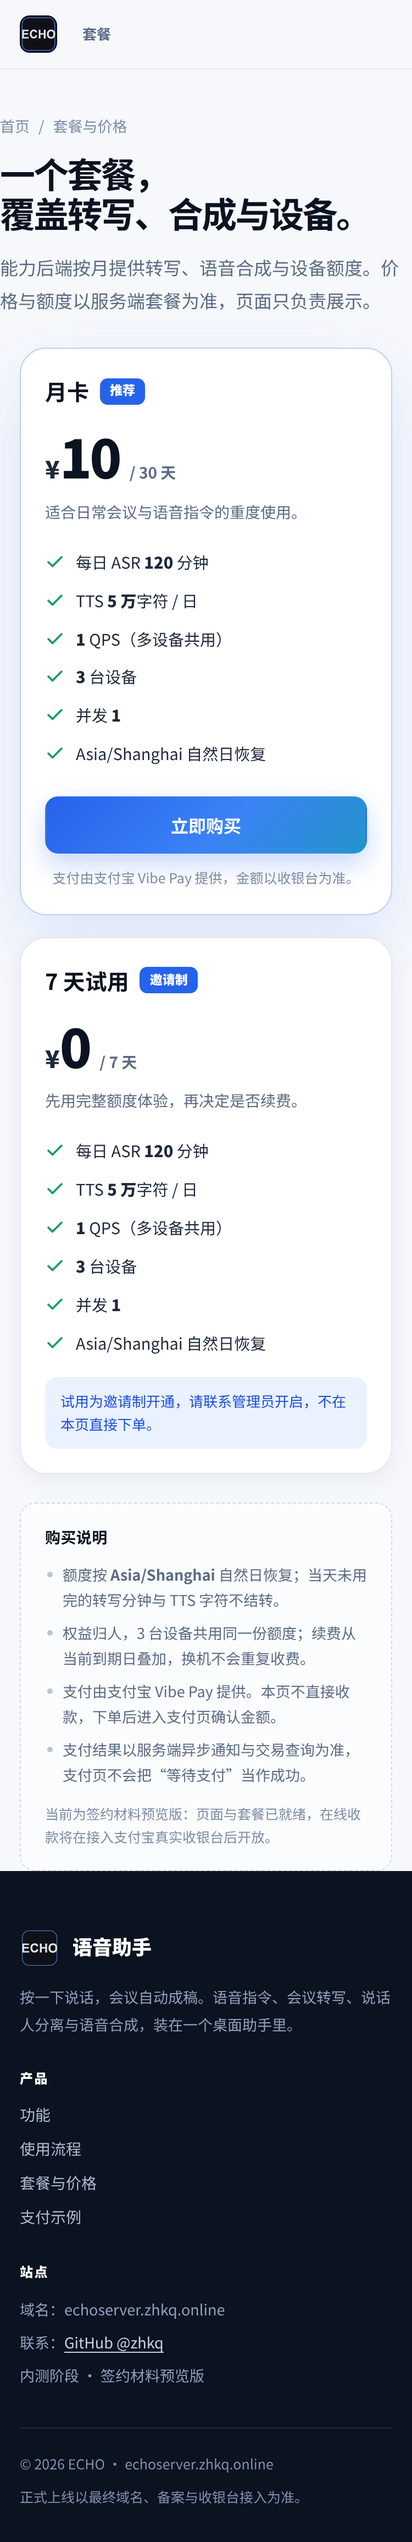
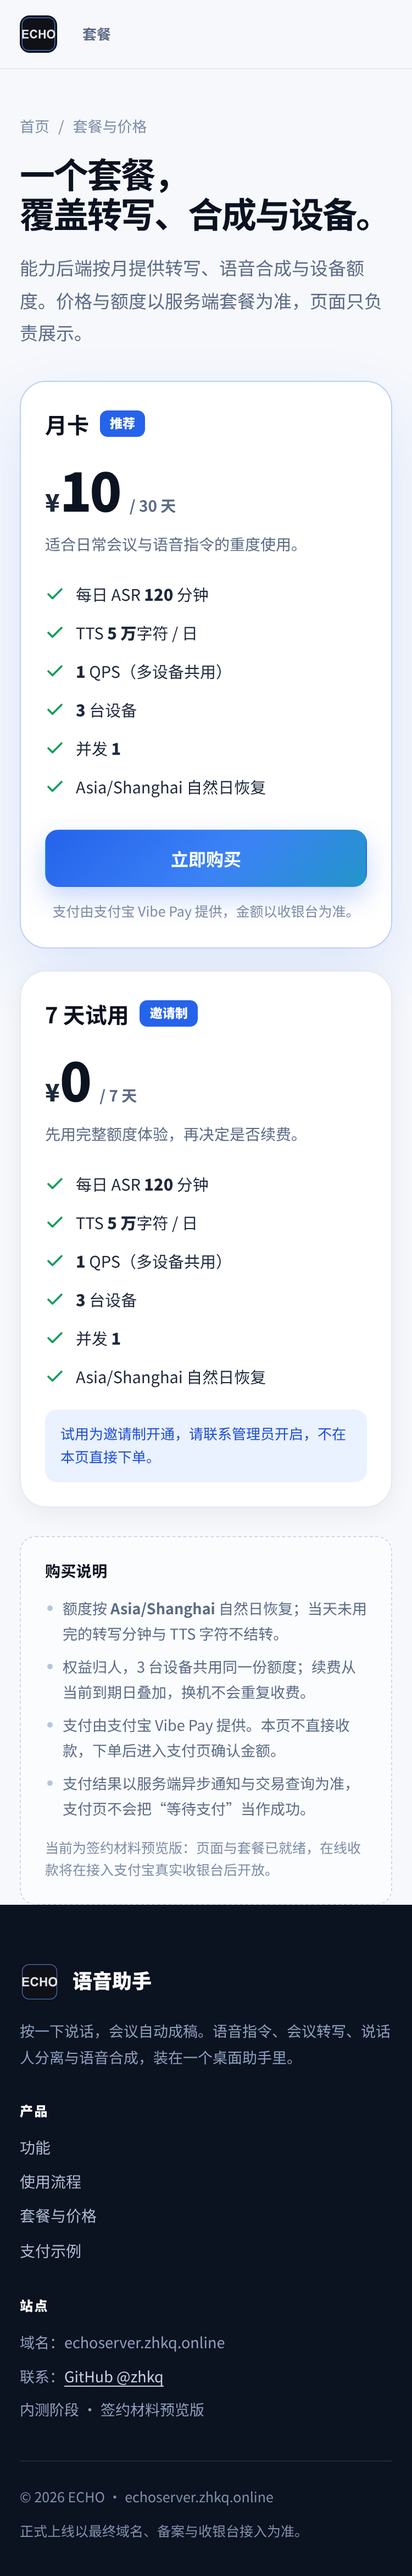
fix(site): 修复移动端 .page-hero 左右内边距 + 补签约提交前清单
- 720px 媒体查询里的 .page-hero 只改上下 padding，保留 .wrap 的 18px 左右内边距
- capture 脚本新增 375 宽 h1.left >= 17px 与 .page-hero padding-left > 0 断言
- tests/test_vibepay_site.py 新增 CSS 守卫，防止 padding 简写把左右清零
- docs/vibepay-evidence/README.md 增加「提交前必须做」5 条（真实收银台/去预览标注/带地址栏/不声称上线/官方定义）
- 重采 after-pricing-mobile.png（h1.left = 18）

diff --git a/site/assets/site.css b/site/assets/site.css
@@ -434,7 +434,8 @@ ul { margin: 0; padding: 0; list-style: none; }
   .privacy { padding: 28px 22px; border-radius: 20px; }
   .cta { flex-direction: column; align-items: flex-start; padding: 28px 24px; }
   .cta .btn { width: 100%; }
-  .page-hero { padding: 40px 0 28px; }
+  /* 只改上下：左右必须继续用 .wrap 的 18px，否则 375 宽下 h1 会贴屏边。 */
+  .page-hero { padding-top: 40px; padding-bottom: 28px; }
   .plan, .panel { padding: 22px; }
   .qr-wrap { flex-direction: column; align-items: flex-start; }
   .footer-grid { grid-template-columns: 1fr; gap: 28px; }

diff --git a/tests/test_vibepay_site.py b/tests/test_vibepay_site.py
@@ -11,6 +11,7 @@
 import json
 import os
 import py_compile
+import re
 import unittest
 from html.parser import HTMLParser
 
@@ -154,6 +155,42 @@ class PageTests(unittest.TestCase):
         for width in ("720px", "980px"):
             self.assertIn("@media (max-width: %s)" % width, css)
 
+    def test_mobile_page_hero_does_not_zero_horizontal_padding(self):
+        """375 宽下 /pricing、/pay 的标题不能贴屏边。
+
+        2026-11-04 复核：`.page-hero { padding: 40px 0 28px }` 会把 `.wrap` 的
+        左右 18px 覆盖成 0，h1.left 变成 0（首页正常 18）。这里钉住 720px 媒体查询里
+        `.page-hero` 的左右内边距不能是 0；真正的 375 宽实测在截图脚本里。
+        """
+        css = _read_site("assets/site.css")
+        media = re.search(r"@media \(max-width: 720px\)\s*\{(.*?)\n\}", css, re.S)
+        self.assertIsNotNone(media, "CSS 里找不到 720px 媒体查询")
+        block = media.group(1)
+        wrap = re.search(r"\.wrap\s*\{([^}]*)\}", block)
+        self.assertIsNotNone(wrap, "720px 媒体查询里没有 .wrap 规则")
+        self.assertIn("padding: 0 18px", wrap.group(1),
+                      "移动端 .wrap 的左右内边距必须保留")
+        hero = re.search(r"\.page-hero\s*\{([^}]*)\}", block)
+        self.assertIsNotNone(hero, "720px 媒体查询里没有 .page-hero 规则")
+        body = hero.group(1)
+        for raw in re.findall(r"padding\s*:\s*([^;]+);", body):
+            parts = raw.split()
+            if len(parts) == 1:
+                horizontal = [parts[0]]
+            elif len(parts) == 2:
+                horizontal = [parts[1]]
+            elif len(parts) == 3:
+                horizontal = [parts[1]]
+            else:
+                horizontal = [parts[1], parts[3]]
+            for value in horizontal:
+                self.assertNotIn(value, ("0", "0px", "0.0px"),
+                                 "720px 下 .page-hero 的左右 padding 被清零：%r" % raw)
+        for prop in ("padding-left", "padding-right"):
+            for value in re.findall(prop + r"\s*:\s*([^;]+);", body):
+                self.assertNotIn(value.strip(), ("0", "0px", "0.0px"),
+                                 "720px 下 .page-hero 的 %s 被清零" % prop)
+
     def test_each_page_has_the_shared_nav_footer_and_toast(self):
         for name in PAGES:
             html = _read_site(name)
@@ -193,7 +230,7 @@ class EvidenceTests(unittest.TestCase):
         text = _read("docs", "vibepay-evidence", "README.md")
         for needle in ("Before", "After", "1440", "375", "768",
                        "APP 名称", "最终域名", "沙箱", "先中文", "已拍板",
-                       "带地址栏", "未完成"):
+                       "带地址栏", "未完成", "提交前必须做", "payUrl", "去掉预览标注"):
             self.assertIn(needle, text, needle)
 
     def test_capture_script_compiles(self):

diff --git a/scripts/capture-vibepay-evidence.py b/scripts/capture-vibepay-evidence.py
@@ -191,6 +191,36 @@ def _assert_no_horizontal_overflow(page, label: str) -> None:
         )
 
 
+def _assert_page_left_margin(page, label: str, minimum: float = 17.0) -> None:
+    """375 宽下标题不能贴屏边：`h1.left` 至少要有 .wrap 的 18px 内边距。
+
+    2026-11-04 真机复核：`@media (max-width: 720px)` 里 `.page-hero { padding: 40px 0 28px }`
+    把 `.wrap` 的左右 18px 覆盖成 0，`/pricing`、`/pay` 的 h1.left = 0（首页正常 18）。
+    横向溢出检查查不出这种“贴边”，所以单独断言。
+    """
+    metrics = page.evaluate(
+        """() => {
+            const h1 = document.querySelector('main h1') || document.querySelector('h1');
+            const hero = document.querySelector('.page-hero');
+            return {
+                h1Left: h1 ? h1.getBoundingClientRect().left : null,
+                heroPadLeft: hero ? parseFloat(getComputedStyle(hero).paddingLeft) : null,
+            };
+        }"""
+    )
+    if metrics["h1Left"] is None:
+        raise RuntimeError("%s 找不到 h1，无法检查左边距" % label)
+    if metrics["h1Left"] < minimum:
+        raise RuntimeError(
+            "%s 的 h1 左边距 %.1fpx < %.0fpx（移动端标题贴边）"
+            % (label, metrics["h1Left"], minimum)
+        )
+    if metrics["heroPadLeft"] is not None and metrics["heroPadLeft"] <= 0:
+        raise RuntimeError(
+            "%s 的 .page-hero 横向内边距为 0（右/左被 padding 简写覆盖）" % label
+        )
+
+
 def _sha256(path: Path) -> str:
     digest = hashlib.sha256()
     with path.open("rb") as fh:
@@ -310,6 +340,7 @@ def capture(args) -> int:
             mobile_page.goto(base_url + "/pricing", wait_until="load")
             _wait_ready(mobile_page)
             _assert_no_horizontal_overflow(mobile_page, "pricing-mobile")
+            _assert_page_left_margin(mobile_page, "pricing-mobile")
             mobile_target = out_dir / "after-pricing-mobile.png"
             mobile_page.screenshot(path=str(mobile_target), full_page=True, animations="disabled")
             files.append({
@@ -326,6 +357,7 @@ def capture(args) -> int:
                 check.goto(base_url + spec["path"], wait_until="load")
                 _wait_ready(check)
                 _assert_no_horizontal_overflow(check, spec["name"] + "-mobile-check")
+                _assert_page_left_margin(check, spec["name"] + "-mobile-check")
                 check.close()
             mobile.close()
 

diff --git a/docs/vibepay-evidence/README.md b/docs/vibepay-evidence/README.md
@@ -4,6 +4,10 @@
 本目录记录首页 `/`、商品页 `/pricing`、支付页 `/pay` 的实际渲染截图、采集条件与
 验收状态。**站点尚未部署到公网，本目录不能当作“已上线”的证据。**
 
+> ⚠ 当前 `after-*.png` 是**内部预览版**（页面上有「签约材料预览版」「沙箱示例」
+> 「尚未接入」等标注），**不能直接作为 Vibe Pay 签约截图提交**。最终提交版必须按
+> 下面「提交前必须做」重做。
+
 ## 采集条件
 
 | 项 | 值 |
@@ -44,10 +48,10 @@
 | 验收项 | 状态 | 说明 |
 |---|---|---|
 | 三个 URL 公网 HTTPS 200（附 `curl`） | ⏳ 未完成 | Phase 2 公网入口/证书未就绪；本次交付不做部署，也不声称已上线 |
-| 首页 / 商品页 / 支付页各 1 张截图 | ✅ 内容截图已入库 | 见上表；**带地址栏**的版本仍待公网 HTTPS 补采 |
+| 首页 / 商品页 / 支付页各 1 张截图 | ✅ 内容截图已入库 | 见上表；**带地址栏**的版本仍待公网 HTTPS 补采；当前是预览版，见「提交前必须做」 |
 | 商品页价格/额度与后端 `plans` 一致 | ✅ | 月卡 ¥10 / 30 天 / 120 分钟 / 5 万字符 / 1 QPS / 3 设备 / 并发 1；数据源 `site/assets/plans.json` |
-| 支付页处于“展示支付宝付款方式、等待支付”状态 | ✅（沙箱） | 明确标注“沙箱示例 · 不会产生真实扣款”；不是支付成功页 |
-| 移动端宽度可用 | ✅ | 脚本检查 375 / 768 / 1440 无横向溢出；商品页 375 截图入库 |
+| 支付页处于“展示支付宝付款方式、等待支付”状态 | ✅（沙箱预览） | 明确标注“沙箱示例 · 不会产生真实扣款”；不是支付成功页。最终提交需真实沙箱收银台并去掉沙箱标注 |
+| 移动端宽度可用 | ✅ | 脚本检查 375 / 768 / 1440 无横向溢出；375 下 `h1.left = 18`（2026-11-04 修复 `.page-hero` 的左右 padding 被简写清零） |
 | 截图 + 采集说明入库 `docs/vibepay-evidence/` | ✅ | 本文件 + 图片 + `capture.json` |
 | 没有把沙箱/占位页面表述成“生产可用” | ✅ | 页面与文档均写明预览/沙箱/未接真实收银台 |
 
@@ -62,6 +66,19 @@
 3. **真实支付宝收银台**：Phase 3 接 `alipay.trade.page.pay` 后再替换支付页的
    沙箱二维码/按钮，并补 `return_url`、`notify_url` 与补偿查询。
 4. **备案信息**：如平台要求，另行准备；页面暂未放 ICP 号。
+
+## 提交前必须做（Vibe Pay 签约）
+
+**当前 `after-*.png` 是内部预览版，不能直接作为签约截图提交。** 提交前逐条完成：
+
+1. **换真实沙箱收银台**：Phase 3 接真实支付宝沙箱收银台后，用真实 `payUrl` /
+   `qrCode` 重新截支付页（不是现在的占位二维码）。
+2. **去掉预览标注**：最终提交截图里去掉「签约材料预览版」「尚未接入」「示例」这类标注；
+   支付页保留真实的「等待支付」状态，而不是支付成功页。
+3. **补带地址栏截图**：公网 HTTPS 就绪后，对**最终域名**用真实浏览器窗口补 3 张
+   **带地址栏**截图（脚本不伪造地址栏），见上一节第 2 条。
+4. **不声称已上线**：本地预览版与提交版分开保存；README / PR 不写「已上线」。
+5. **再对官方定义**：支付页 = 展示支付宝付款方式、等待用户去支付的页面（不是支付成功页）。
 
 ## 已拍板的默认值（2026-11-04，issue #7 评论）
 
@@ -88,4 +105,5 @@ python scripts/capture-vibepay-evidence.py --base-url https://echoserver.zhkq.on
 ```
 
 脚本会断言：三个页面的关键文案存在、支付页没有跳转、375/768/1440 无横向溢出，
+以及 375 宽下 `h1.left >= 17px`（防止 `.page-hero` 的左右 padding 被简写覆盖成 0），
 并把结果写进 `capture.json`。截图由真实浏览器渲染，不是拼图或 mockup。
